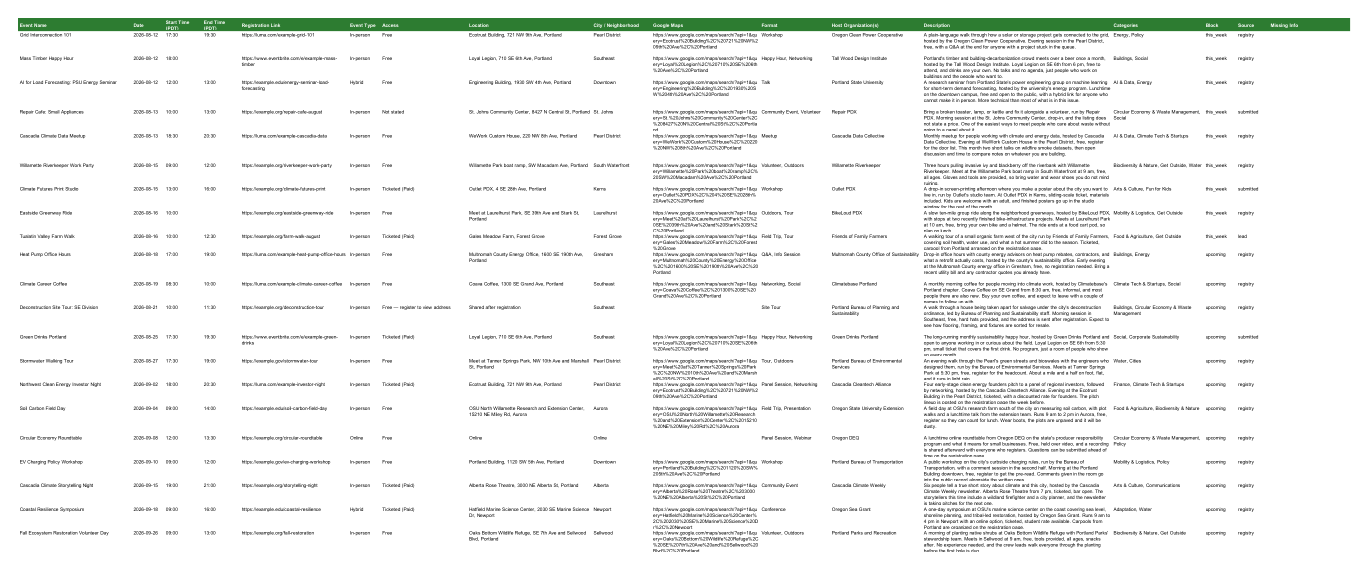
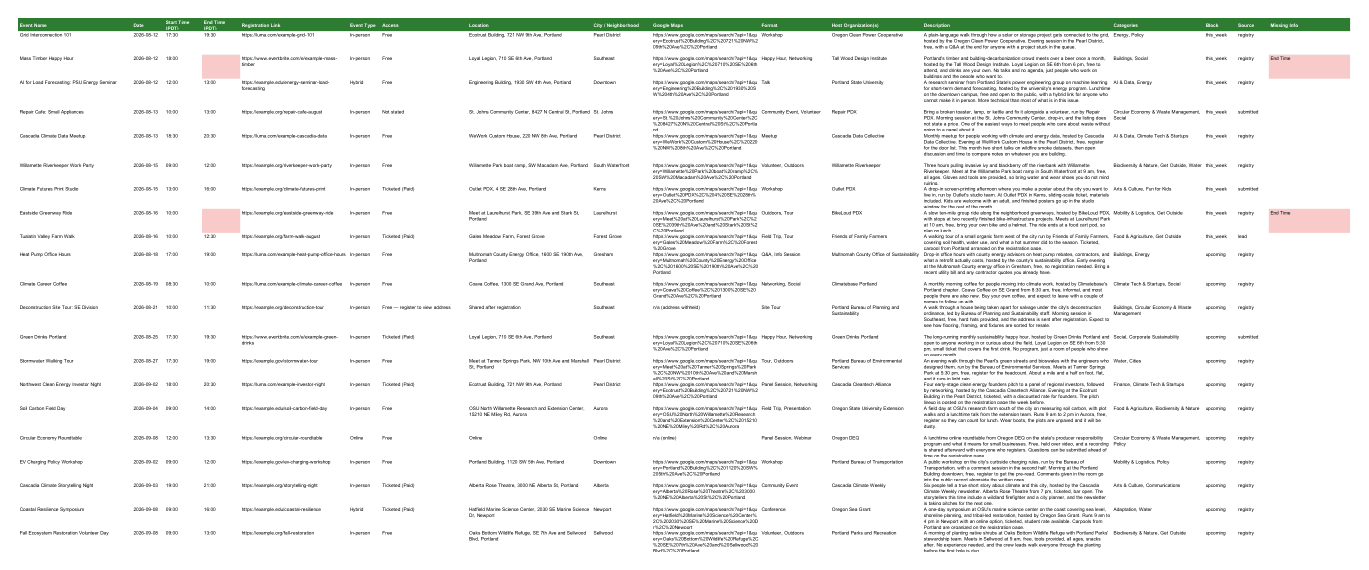
v12.1.0: four regenerated sample files, previews re-rendered to match
Opportunities_SAMPLE.xlsx, CTC_Events_SAMPLE.xlsx and both Portland issue
files replace the hosted copies at the same paths and names. The
opportunities workbook no longer carries a Status or a Last used column, so
the excerpt on the Newsletter page drops its Status column. The events
workbook now flags a missing end time in Missing Info and notes where a map
link does not apply. The Portland issue's Upcoming Events are in date order.

Preview shows a render of the very file Download hands over, so the page
images and the opened-in-Excel and opened-in-Word captures for those three
files were re-taken from the new files. Page counts are unchanged; only the
opportunities sheet's height moved in DIMS.

The ctc-newsletter label stays at v2.0.0 because the hosted zip is v2.0.0.

diff --git a/newsletter/index.html b/newsletter/index.html
@@ -131,12 +131,12 @@
       <div class="scroll">
       <table class="excerpt">
         <thead><tr>
-          <th>Opportunity</th><th>Organization</th><th>Type</th><th>Deadline</th><th>Who it is for</th><th>Scope</th><th>Status</th>
+          <th>Opportunity</th><th>Organization</th><th>Type</th><th>Deadline</th><th>Who it is for</th><th>Scope</th>
         </tr></thead>
         <tbody>
-          <tr><td>PSU Climate Venture Studio</td><td>Portland State University</td><td>Accelerator</td><td class="mono">2026-09-30</td><td>Student and alumni founders</td><td>Portland</td><td class="mono">Not used</td></tr>
-          <tr><td>Portland Clean Energy Fund Community Grants</td><td>Portland Clean Energy Community Benefits Fund</td><td>Grant</td><td class="mono">2026-10-01</td><td>Nonprofits and community groups in Portland</td><td>Portland</td><td class="mono">Not used</td></tr>
-          <tr><td>Oregon BEST Early Commercialization Grant</td><td>Oregon BEST</td><td>Grant</td><td class="mono">2026-09-15</td><td>Hardware climate startups with a physical presence</td><td>Oregon</td><td class="mono">Not used</td></tr>
+          <tr><td>PSU Climate Venture Studio</td><td>Portland State University</td><td>Accelerator</td><td class="mono">2026-09-30</td><td>Student and alumni founders</td><td>Portland</td></tr>
+          <tr><td>Portland Clean Energy Fund Community Grants</td><td>Portland Clean Energy Community Benefits Fund</td><td>Grant</td><td class="mono">2026-10-01</td><td>Nonprofits and community groups in Portland</td><td>Portland</td></tr>
+          <tr><td>Oregon BEST Early Commercialization Grant</td><td>Oregon BEST</td><td>Grant</td><td class="mono">2026-09-15</td><td>Hardware climate startups with a physical presence</td><td>Oregon</td></tr>
         </tbody>
       </table>
       </div>

diff --git a/downloads/samples/Portland_Climate_Tech_Aug_11-Aug_18.html b/downloads/samples/Portland_Climate_Tech_Aug_11-Aug_18.html
@@ -78,12 +78,12 @@ body { margin: 0; padding: 40px 20px; background: #fff; }
 <li><a href="https://www.eventbrite.com/e/example-green-drinks">🍻 Green Drinks Portland</a>: Aug 25</li>
 <li><a href="https://example.gov/stormwater-tour">💧 Stormwater Walking Tour</a>: Aug 27</li>
 <li><a href="https://luma.com/example-investor-night">📈 Northwest Clean Energy Investor Night</a>: Sep 2</li>
+<li><a href="https://example.gov/ev-charging-workshop">🔌 EV Charging Policy Workshop</a>: Sep 2</li>
+<li><a href="https://example.org/storytelling-night">🎭 Cascadia Climate Storytelling Night</a>: Sep 3</li>
 <li><a href="https://example.edu/soil-carbon-field-day">🌱 Soil Carbon Field Day</a>: Sep 4</li>
 <li><a href="https://example.org/circular-roundtable">♻ Circular Economy Roundtable</a>: Sep 8</li>
-<li><a href="https://example.gov/ev-charging-workshop">🔌 EV Charging Policy Workshop</a>: Sep 10</li>
-<li><a href="https://example.org/storytelling-night">🎭 Cascadia Climate Storytelling Night</a>: Sep 15</li>
-<li><a href="https://example.edu/coastal-resilience">🌊 Coastal Resilience Symposium</a>: Sep 18</li>
-<li><a href="https://example.org/fall-restoration">🍂 Fall Ecosystem Restoration Volunteer Day</a>: Sep 26</li>
+<li><a href="https://example.edu/coastal-resilience">🌊 Coastal Resilience Symposium</a>: Sep 8</li>
+<li><a href="https://example.org/fall-restoration">🍂 Fall Ecosystem Restoration Volunteer Day</a>: Sep 8</li>
 </ul>
 <hr>
 <h2>This Week in Detail</h2>

diff --git a/assets/site.js b/assets/site.js
@@ -146,7 +146,7 @@ var FILES = {
 var DIMS = {
   "registry": [[1381,335],[1400,758]],
   "events": [[1369,570],[1400,758]],
-  "opportunities": [[1398,598],[1400,758]],
+  "opportunities": [[1398,663],[1400,758]],
   "city-resources": [[1379,915],[1379,426],[1402,707],[1400,758]],
   "partner-map": [[1399,866],[1395,315],[1400,758]],
   "chapter-settings": [[995,1318],[972,408],[1400,758]],

diff --git a/CHANGELOG.md b/CHANGELOG.md
@@ -2,6 +2,23 @@
 
 All toolkit releases. The site reads `version.json`; this file is the human-readable record.
 
+## 12.1.0 - 2026-09-26
+
+Four sample files regenerated by the toolkit's author replace the hosted
+copies, same paths and names: Opportunities_SAMPLE.xlsx, CTC_Events_SAMPLE.xlsx
+and both Portland issue files. The opportunities workbook no longer carries a
+Status or a Last used column, so the excerpt on the Newsletter page drops its
+Status column too. The events workbook now flags a missing end time in its
+Missing Info column and notes where a map link does not apply. The Portland
+issue's Upcoming Events are in date order.
+
+Because Preview shows a render of the very file Download hands over, the
+page images and the opened-in-Excel and opened-in-Word captures for those
+three files were re-taken from the new files. Page counts are unchanged.
+
+Not done: the ctc-newsletter version label still reads v2.0.0, because the
+zip the site hosts is v2.0.0. It changes when a newer zip is supplied.
+
 ## 12.0.0 - 2026-09-26
 
 The apply call to action is off the site. The green Apply button in the top
